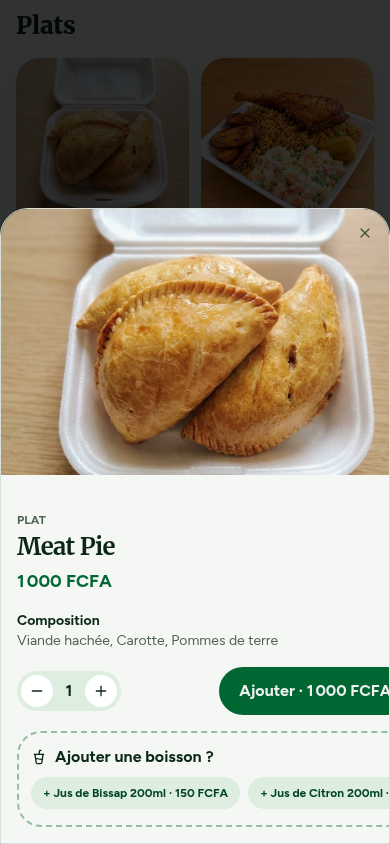
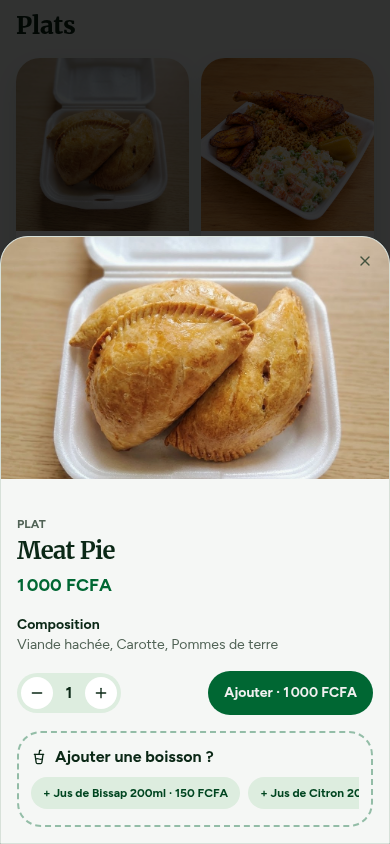
Changes

diff --git a/src/routes/menu.tsx b/src/routes/menu.tsx
@@ -192,7 +192,7 @@ function DishDetail({ dish, drinks, onClose }: { dish: Dish | null; drinks: Dish
     <Dialog open onOpenChange={(o) => { if (!o) { onClose(); setQty(1); setFmt(null); setChosen({}); } }}>
       <DialogContent className="bottom-0 left-0 top-auto max-h-[92vh] w-full max-w-full translate-x-0 translate-y-0 overflow-y-auto rounded-b-none rounded-t-3xl p-0 data-[state=open]:slide-in-from-bottom sm:bottom-auto sm:left-[50%] sm:top-[50%] sm:max-w-lg sm:translate-x-[-50%] sm:translate-y-[-50%] sm:rounded-3xl">
         <Img dish={dish} className="aspect-[16/10] w-full sm:aspect-[4/3]" />
-        <div className="space-y-4 p-4 sm:p-5">
+        <div className="min-w-0 space-y-4 p-4 sm:p-5">
           <div>
             <span className="text-xs font-bold uppercase text-muted-foreground">{categoryLabel(dish.category)}</span>
             <DialogTitle className="font-display text-2xl">{dish.name}</DialogTitle>
@@ -207,7 +207,7 @@ function DishDetail({ dish, drinks, onClose }: { dish: Dish | null; drinks: Dish
               <ExtrasPicker list={available} chosen={chosen} setChosen={setChosen} />
               <div className="flex items-center justify-between gap-2">
                 <Qty qty={qty} setQty={setQty} />
-                <button onClick={() => { addDish(dish, qty, current, picked); setQty(1); setChosen({}); }} className="rounded-full bg-primary px-5 py-3 font-bold text-primary-foreground">
+                <button onClick={() => { addDish(dish, qty, current, picked); setQty(1); setChosen({}); }} className="rounded-full bg-primary px-4 py-3 text-sm font-bold text-primary-foreground sm:px-5 sm:text-base">
                   Ajouter · {formatPrice(price * qty)}
                 </button>
               </div>
